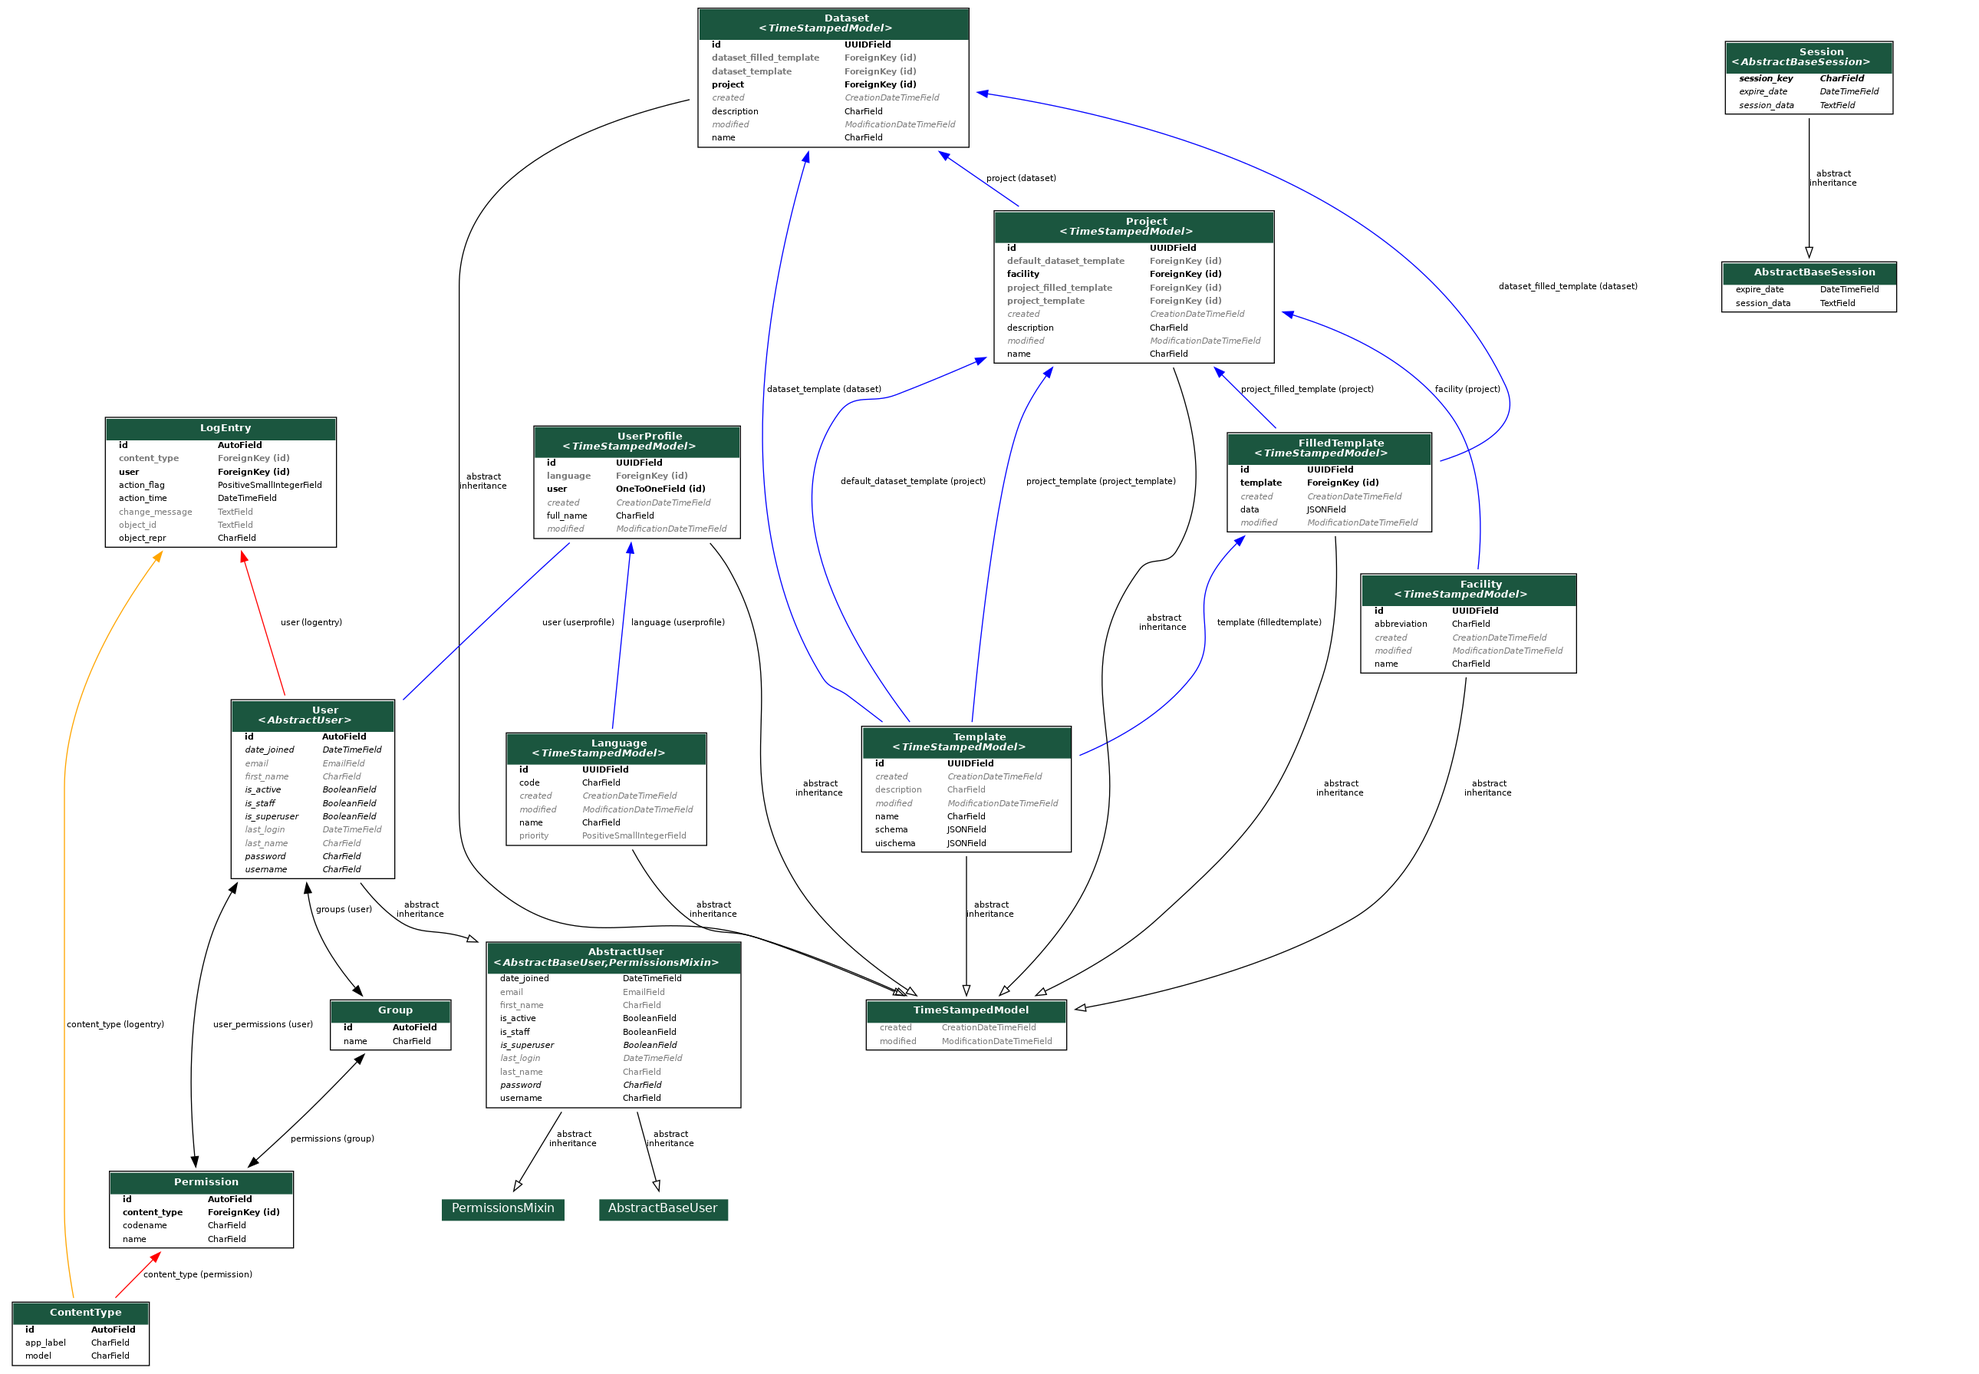
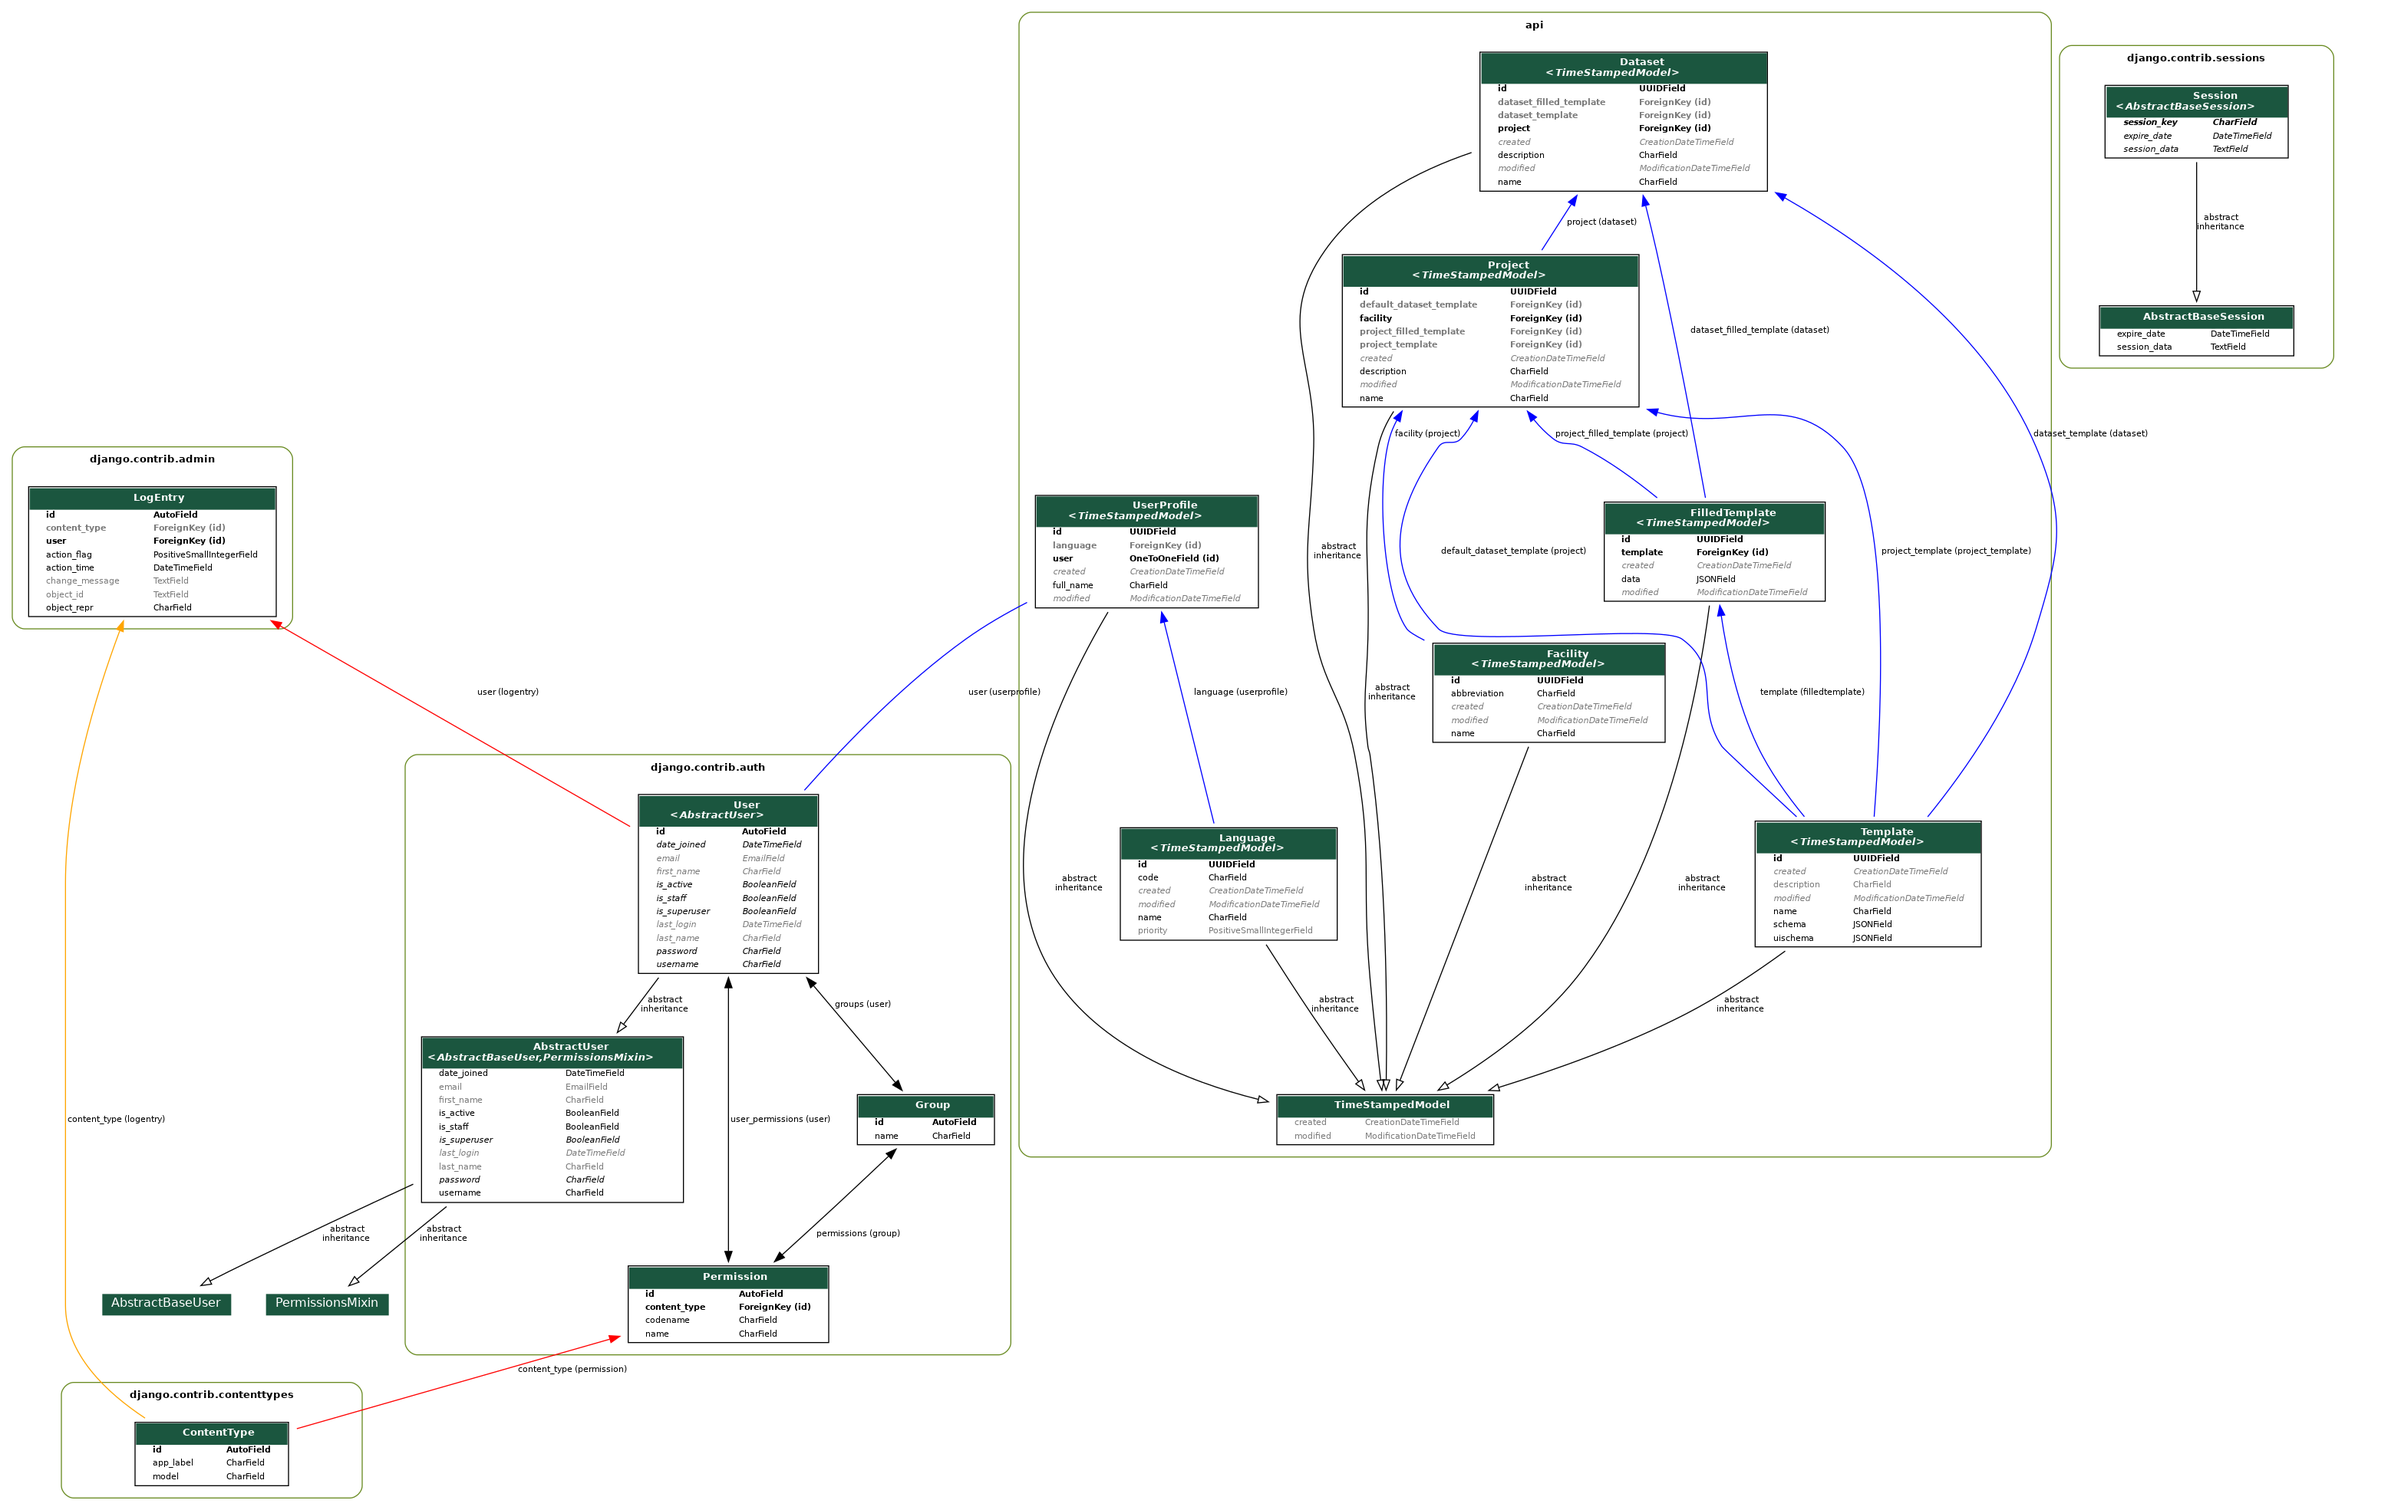
better full ERD

diff --git a/dareg/api/models.py b/dareg/api/models.py
@@ -13,7 +13,7 @@ from django.conf import settings
 # only one given app
 # pyma graph_models api --pydot --arrow-shape normal --color-code-deletions -o dareg.png
 # all apps
-# pyma graph_models api --all-applications --pydot --arrow-shape normal --color-code-deletions -o dareg_full.png
+# pyma graph_models api --all-applications --group-models --pydot --arrow-shape normal --color-code-deletions -o dareg_full.png
 ##
 
 
